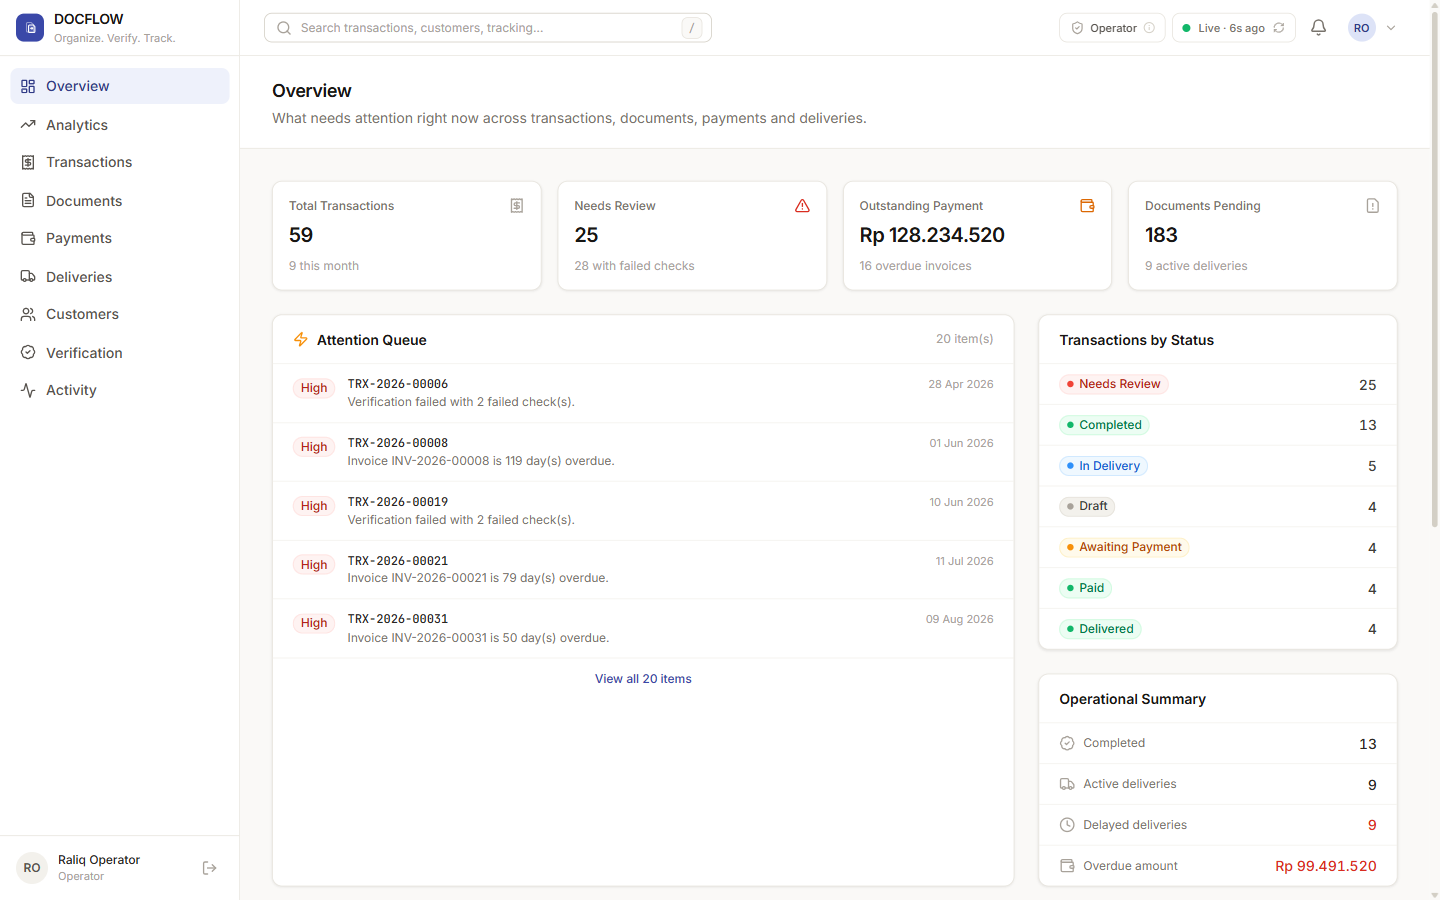
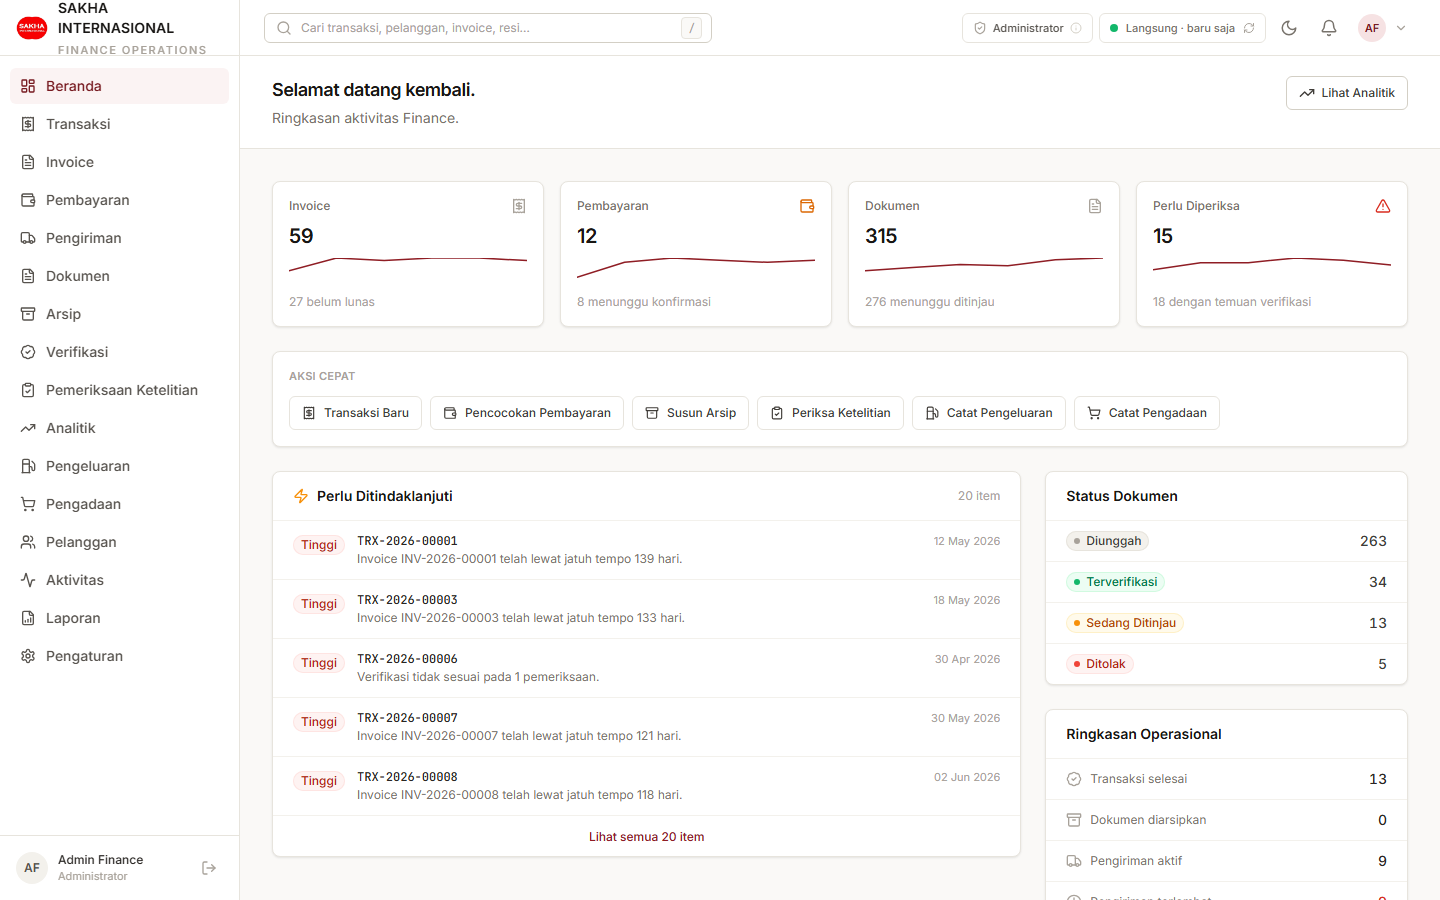
Update screenshots to SAKHA Finance Operations + add project explanation
- Remove all old DOCFLOW screenshots
- Add 29 fresh screenshots: every module, key tabs, detail view, and a
  dark-mode set (light + dark)
- Add screenshot index (presentation/screenshots/README.md)
- Add PROJECT_EXPLANATION.md: full write-up of the project (background,
  architecture, workflow, modules, business rules, tech, how to run,
  demo accounts, PKL job mapping, and honesty/limitations)

diff --git a/PROJECT_EXPLANATION.md b/PROJECT_EXPLANATION.md
@@ -1,0 +1,324 @@
+# SAKHA Finance Operations — Penjelasan Project
+
+> **Sistem Informasi Pengelolaan Data dan Dokumen Finance**
+> Prototype yang dikembangkan berdasarkan kegiatan PKL di **PT. Sakha Internasional**.
+
+---
+
+## Daftar Isi
+
+1. [Ringkasan Singkat](#1-ringkasan-singkat)
+2. [Latar Belakang](#2-latar-belakang)
+3. [Tujuan & Manfaat](#3-tujuan--manfaat)
+4. [Ruang Lingkup](#4-ruang-lingkup)
+5. [Arsitektur Sistem](#5-arsitektur-sistem)
+6. [Alur Kerja Utama](#6-alur-kerja-utama)
+7. [Modul & Fitur](#7-modul--fitur)
+8. [Aturan Bisnis (Deterministik)](#8-aturan-bisnis-deterministik)
+9. [Teknologi yang Digunakan](#9-teknologi-yang-digunakan)
+10. [Cara Menjalankan](#10-cara-menjalankan)
+11. [Akun Demo](#11-akun-demo)
+12. [Screenshot](#12-screenshot)
+13. [Pemetaan ke Pekerjaan PKL](#13-pemetaan-ke-pekerjaan-pkl)
+14. [Keterbatasan & Kejujuran](#14-keterbatasan--kejujuran)
+
+---
+
+## 1. Ringkasan Singkat
+
+**SAKHA Finance Operations** adalah sebuah *prototype* sistem informasi yang membantu
+pengelolaan data dan dokumen pada bagian **Finance**. Sistem ini menghubungkan
+transaksi, invoice, pembayaran, pengiriman, dokumen, arsip, dan verifikasi dalam
+**satu alur kerja yang dapat ditelusuri** — sehingga tidak ada berkas atau data yang
+tercecer di antara marketplace, spreadsheet, dan percakapan chat.
+
+> ⚠ **Penting:** Ini adalah **prototype pengembangan**, **bukan** sistem produksi
+> resmi PT. Sakha Internasional. Seluruh data yang ditampilkan bersifat **contoh (fiktif)**.
+
+---
+
+## 2. Latar Belakang
+
+Selama PKL di bagian administrasi Finance, pekerjaan sehari-hari melibatkan
+banyak dokumen dan sumber data: invoice, resi, surat jalan, tanda terima, e-faktur,
+purchase invoice, bukti pembayaran, data marketplace, Accurate, Excel, hingga arsip fisik.
+
+Dari pengamatan tersebut muncul satu pola yang berulang:
+
+> **Data & dokumen datang dari banyak sumber → harus dicek → dicocokkan → diinput →
+> di-scan/rename → disimpan → di-filling → dimonitor → diverifikasi.**
+
+Pola inilah yang menjadi dasar perancangan sistem: **data dan dokumen harus mengalir
+melalui satu jalur yang tertata dan bisa ditelusuri kembali.**
+
+---
+
+## 3. Tujuan & Manfaat
+
+| Tujuan | Manfaat |
+|---|---|
+| Menyatukan data dalam satu tempat | Tidak perlu bolak-balik antar file/spreadsheet |
+| Menstandarkan penamaan & jenis dokumen | Berkas mudah ditemukan kembali |
+| Melacak status dokumen & pembayaran | Menghindari invoice terlewat / resi hilang |
+| Menyediakan pemeriksaan otomatis | Mengurangi kesalahan input yang tidak terdeteksi |
+| Menyediakan arsip terstruktur | Memudahkan *filling* dan pencarian dokumen lama |
+| Menyediakan laporan & analitik | Mendukung pengambilan keputusan |
+
+---
+
+## 4. Ruang Lingkup
+
+Sistem ini **fokus pada administrasi Finance**, tidak melebar menjadi ERP penuh.
+
+**Termasuk:**
+- Transaksi, Invoice, Pembayaran (termasuk pencocokan), Pengiriman (resi & tanda terima)
+- Dokumen (bulk Finance: invoice, e-faktur, surat jalan, resi, tanda terima, dll)
+- Arsip dokumen terstruktur
+- Verifikasi & Pemeriksaan Ketelitian
+- Pengeluaran operasional (klaim bensin)
+- Pengadaan barang ringan + Buku SPB
+- Aktivitas (jejak audit) & Laporan
+
+**Tidak termasuk** (di luar lingkup PKL Finance):
+HR, Payroll, CRM, Manajemen Gudang, Inventori penuh, Akuntansi/Tax penuh,
+Purchasing ERP penuh, hirarki persetujuan kompleks, atau fitur AI.
+
+---
+
+## 5. Arsitektur Sistem
+
+```
+┌──────────────────────────────────────────────────────┐
+│                    PENGGUNA (Browser)                 │
+│         Landing Page  →  Aplikasi (SPA React)         │
+└───────────────────────────┬──────────────────────────┘
+                            │  HTTP (satu origin)
+                            ▼
+┌──────────────────────────────────────────────────────┐
+│              LARAVEL (Backend + SPA hosting)          │
+│  Routes → Middleware → Controller → Service → Model   │
+│                                                       │
+│  • Auth (session, 3 peran)                            │
+│  • Service: Verification, Accuracy, PaymentMatch,     │
+│             Analytics, Attention, Notification        │
+│  • Jobs: SendScheduledReport (laporan terjadwal)      │
+│  • PDF: dompdf (laporan siap cetak)                   │
+└───────────────────────────┬──────────────────────────┘
+                            │  Eloquent
+                            ▼
+┌──────────────────────────────────────────────────────┐
+│                   PostgreSQL 17                       │
+│  users · customers · transactions · invoices ·        │
+│  payments · deliveries · documents · archives ·       │
+│  expenses · procurements · verification_runs ·        │
+│  activity_logs · notifications …                      │
+└──────────────────────────────────────────────────────┘
+```
+
+**Prinsip kunci:**
+- SPA di-*serve* dari **origin yang sama** dengan API → session/cookie aman, tanpa CORS rumit.
+- Peran (ADMIN/OPERATOR/REVIEWER) **ditegakkan di server**, bukan hanya disembunyikan di UI.
+- Pemeriksaan (verifikasi & ketelitian) memakai **aturan tetap**, bukan AI.
+
+---
+
+## 6. Alur Kerja Utama
+
+```
+TRANSAKSI
+    ↓
+INVOICE ──────────→ DOKUMEN (invoice, e-faktur, surat jalan, resi, tanda terima, …)
+    ↓                     ↓
+PEMBAYARAN ────→ PENCOCOKAN ──→ SESUAI / PERLU DIPERIKSA
+    ↓
+PENGIRIMAN (resi, tanda terima)
+    ↓
+VERIFIKASI  ──→ SESUAI / PERLU DIPERIKSA / TIDAK SESUAI
+    ↓
+ARSIP (Tahun → Bulan → Jenis → Pelanggan)
+```
+
+Proses pendukung:
+```
+PENGADAAN → INVOICE PEMBELIAN → DOKUMEN → ARSIP
+PENGELUARAN (klaim bensin) → BUKTI → VERIFIKASI → ARSIP
+```
+
+---
+
+## 7. Modul & Fitur
+
+| Modul | Fungsi utama |
+|---|---|
+| **Beranda** | Ringkasan Finance: metrik, "Perlu Ditindaklanjuti", status dokumen, aksi cepat |
+| **Transaksi** | Pusat pencatatan transaksi + halaman detail (invoice, pembayaran, pengiriman, dokumen, verifikasi, aktivitas) |
+| **Invoice** | Daftar invoice lintas transaksi, jatuh tempo, status pembayaran |
+| **Pembayaran** | Daftar pembayaran + tab **Pencocokan** (invoice vs pembayaran + selisih) |
+| **Pengiriman** | Resi, ekspedisi, tanda terima |
+| **Dokumen** | Unggah, pratinjau, unduh, verifikasi, arsipkan (15 jenis dokumen Finance) |
+| **Arsip** | Arsip terstruktur + riwayat + unduh; pencarian & filter |
+| **Verifikasi** | Hasil verifikasi per aturan, dengan penjelasan setiap temuan |
+| **Pemeriksaan Ketelitian** | Audit deterministik 5 aspek input; SESUAI / PERLU DIPERIKSA / TIDAK SESUAI |
+| **Analitik** | Tren per modul (5 tab): ringkasan, invoice & pembayaran, dokumen & arsip, verifikasi & ketelitian, pengeluaran & pengadaan |
+| **Pengeluaran** | Klaim bensin & pengeluaran operasional (kendaraan, KM, SPBU, jenis BBM, nominal, bukti, status) |
+| **Pengadaan** | Pengadaan barang ringan + Buku SPB (supplier, harga, jumlah, resi, status) |
+| **Pelanggan** | Data pelanggan + detail |
+| **Aktivitas** | Jejak audit lengkap (filter pengguna/entitas/tindakan/tanggal + pencarian) |
+| **Laporan** | Semua laporan dalam satu tempat — **PDF · CSV · Email** |
+| **Pengaturan** | Dokumen wajib · Sistem · **Preferensi** (tema & notifikasi) · Pengguna & Peran |
+
+### Sorotan fitur
+- **Tema Terang/Gelap** — pilihan tersimpan per akun, berlaku di seluruh halaman.
+- **Laporan PDF** — berlogo, bernomor halaman, lengkap grafik (di-generate server via dompdf).
+- **Email laporan** — kirim ke email sendiri + laporan otomatis terjadwal (harian/mingguan/bulanan).
+- **Pencocokan pembayaran** — menampilkan **selisih rupiah** eksplisit, bukan sekadar status.
+
+---
+
+## 8. Aturan Bisnis (Deterministik)
+
+Pemeriksaan **tidak memakai AI** — semua aturan tetap dan dapat dijelaskan.
+
+### Verifikasi (8 pemeriksaan)
+Pelanggan · Invoice · Nominal · Pembayaran · Kelengkapan dokumen · Resi ·
+Tanggal · Duplikat → hasil: **SESUAI / PERLU DIPERIKSA / TIDAK SESUAI**.
+
+### Pemeriksaan Ketelitian (5 aspek)
+| Aspek | Yang diperiksa |
+|---|---|
+| Pelanggan | Pelanggan transaksi konsisten dengan invoice |
+| Nomor Invoice | Ada dan tidak duplikat |
+| Tanggal Invoice | Wajar terhadap tanggal transaksi |
+| Nilai Invoice | Sama dengan nilai transaksi (selisih ditampilkan) |
+| Kelengkapan Dokumen | Dokumen wajib sudah lengkap |
+
+Ambang batas (`ambang perlu ditinjau`, `skor minimum`) dapat diubah di **Pengaturan → Sistem**.
+
+### Pencocokan Pembayaran
+- Nilai invoice = nilai pembayaran → **SESUAI**
+- Ada selisih → **PERLU DIPERIKSA** (menampilkan nominal selisih)
+- Belum ada pembayaran → **TIDAK SESUAI**
+
+---
+
+## 9. Teknologi yang Digunakan
+
+| Lapisan | Teknologi |
+|---|---|
+| Backend | Laravel 13 (PHP 8.3) |
+| Database | PostgreSQL 17 |
+| Frontend | React 18 + TypeScript + Vite |
+| Styling | Tailwind CSS (token warna, dark mode) |
+| Auth | Session-based (Laravel Sanctum stateful) |
+| PDF | barryvdh/laravel-dompdf |
+| Email | SMTP (Laravel Mail) + Queue (driver database) |
+| Pengujian | PHPUnit (51 test) |
+
+---
+
+## 10. Cara Menjalankan
+
+**Prasyarat:** PHP 8.3+, Composer, Node 18+, PostgreSQL.
+
+```powershell
+# Cara termudah — klik dua kali run.cmd, atau dari terminal:
+cd sakha-finance
+.\dev.ps1 up          # PostgreSQL + Laravel API (port bebas 8650–8699)
+.\start-all.ps1       # + queue worker + Vite dev server
+```
+
+Buka **http://127.0.0.1:8650** (port tercatat di `sakha-finance/.devport`).
+
+```powershell
+# Reset data contoh
+php artisan migrate:fresh --seed
+php artisan sakha:regenerate-documents
+
+# Jalankan test
+php artisan test      # 51 test
+
+# Build frontend
+cd spa; npm install; npm run build
+```
+
+---
+
+## 11. Akun Demo
+
+| Email | Peran | Kata sandi |
+|---|---|---|
+| `admin@sakha.test` | Administrator | `password` |
+| `operator@sakha.test` | Operator | `password` |
+| `reviewer@sakha.test` | Pemeriksa | `password` |
+
+**Perbedaan peran (ditegakkan di server):**
+
+| Peran | Dapat | Tidak dapat |
+|---|---|---|
+| **Administrator** | Akses penuh, kelola pengguna & pengaturan | — |
+| **Operator** | Buat/ubah transaksi, dokumen, pembayaran, pengiriman | Verifikasi/tolak dokumen, ubah alur kerja, kelola pengguna |
+| **Pemeriksa** | Verifikasi/tolak dokumen, tinjau hasil | Buat/ubah transaksi, catat pembayaran, unggah dokumen |
+
+---
+
+## 12. Screenshot
+
+Semua tangkapan layar ada di folder [`presentation/screenshots/`](./screenshots).
+
+**Mode Terang (23):**
+`01-landing` · `02-login` · `03-register` · `04-beranda` · `05-transaksi` · `06-invoice` ·
+`07-pembayaran` · `08-pembayaran-pencocokan` · `09-pengiriman` · `10-dokumen` · `11-arsip` ·
+`12-verifikasi` · `13-ketelitian` · `14-analitik-ringkasan` · `15-pengeluaran` · `16-pengadaan` ·
+`17-pelanggan` · `18-aktivitas` · `19-laporan` · `20-pengaturan-dokumen` · `21-pengaturan-sistem` ·
+`22-pengaturan-preferensi` · `23-detail-transaksi`
+
+**Mode Gelap (6):**
+`24-dark-beranda` · `25-dark-analitik` · `26-dark-arsip` · `27-dark-ketelitian` ·
+`28-dark-laporan` · `29-dark-preferensi`
+
+---
+
+## 13. Pemetaan ke Pekerjaan PKL
+
+Sistem ini bukan mengarang fitur — setiap modul berangkat dari pekerjaan yang
+benar-benar dilakukan/diamati selama PKL:
+
+| Pekerjaan PKL | Diwujudkan menjadi |
+|---|---|
+| Update Payment | Modul **Pembayaran** + tab **Pencocokan** |
+| Simpan Invoice / Purchase Invoice | Modul **Invoice** & **Dokumen** |
+| Simpan Resi / Menyesuaikan Resi & Invoice | Modul **Pengiriman** (resi) + pencocokan |
+| Filling Tanda Terima & Penerimaan | **Pengiriman** (tanda terima) |
+| Scan / Rename / Filling Dokumen / Penyusunan Dokumen | Modul **Arsip** |
+| Update Pengadaan Barang / Buku SPB | Modul **Pengadaan** |
+| Claim Bensin | Modul **Pengeluaran** |
+| Dashboard Ketelitian Input Sales Invoice | Modul **Pemeriksaan Ketelitian** |
+| Pemeriksaan Invoice Lebih dari Satu | **Verifikasi** + pencocokan |
+| Isi Dashboard Pengiriman | **Pengiriman** |
+| Menyesuaikan e-Faktur / jurnal / BA | Jenis dokumen di **Dokumen** & **Arsip** |
+
+---
+
+## 14. Keterbatasan & Kejujuran
+
+Agar presentasi dapat dipertanggungjawabkan, dipakai tiga label konsisten:
+
+- **ACTUAL** — pekerjaan yang benar-benar dilakukan selama PKL.
+- **OBSERVATION** — pola/alur yang diamati.
+- **PROPOSED** — usulan perbaikan lewat project ini (**belum dipakai perusahaan**).
+
+**Yang perlu dipahami:**
+
+- Ini **prototype pengembangan**, **bukan** sistem produksi resmi PT. Sakha Internasional.
+- Seluruh data bersifat **fiktif/contoh** — tidak ada data perusahaan asli maupun rahasia.
+- Pemeriksaan bersifat **deterministik (aturan tetap)**, **bukan AI**.
+- Email memakai **sandbox (Mailtrap)** untuk demo, bukan kotak surat produksi.
+- Sistem dirancang **sempit dan relevan** (Finance), sengaja **bukan** ERP.
+
+> Kalimat yang dapat dipakai saat presentasi:
+> *"Ini berasal dari proses yang saya lakukan/lihat selama PKL, kemudian saya kembangkan
+> menjadi fitur sistem — berupa prototype, belum sistem produksi, dan memakai data contoh."*
+
+---
+
+*Dibuat untuk laporan & presentasi PKL — PT. Sakha Internasional.*

diff --git a/presentation/screenshots/README.md b/presentation/screenshots/README.md
@@ -1,0 +1,48 @@
+# Screenshot — SAKHA Finance Operations
+
+Tangkapan layar aplikasi **SAKHA Finance Operations** (Sistem Informasi Pengelolaan
+Data dan Dokumen Finance) untuk keperluan laporan & presentasi PKL.
+
+> Prototype berdasarkan kegiatan PKL di PT. Sakha Internasional. Data bersifat contoh
+> (fiktif), bukan data perusahaan.
+
+Diambil pada resolusi **1440×900**, akun `admin@sakha.test`.
+
+## Mode Terang
+
+| # | Halaman | Berkas |
+|---|---|---|
+| 01 | Landing page | `01-landing.png` |
+| 02 | Login | `02-login.png` |
+| 03 | Registrasi | `03-register.png` |
+| 04 | Beranda (dashboard) | `04-beranda.png` |
+| 05 | Transaksi | `05-transaksi.png` |
+| 06 | Invoice | `06-invoice.png` |
+| 07 | Pembayaran | `07-pembayaran.png` |
+| 08 | Pembayaran — Pencocokan | `08-pembayaran-pencocokan.png` |
+| 09 | Pengiriman | `09-pengiriman.png` |
+| 10 | Dokumen | `10-dokumen.png` |
+| 11 | Arsip | `11-arsip.png` |
+| 12 | Verifikasi | `12-verifikasi.png` |
+| 13 | Pemeriksaan Ketelitian | `13-ketelitian.png` |
+| 14 | Analitik | `14-analitik-ringkasan.png` |
+| 15 | Pengeluaran | `15-pengeluaran.png` |
+| 16 | Pengadaan & SPB | `16-pengadaan.png` |
+| 17 | Pelanggan | `17-pelanggan.png` |
+| 18 | Aktivitas (audit) | `18-aktivitas.png` |
+| 19 | Laporan (PDF/CSV/Email) | `19-laporan.png` |
+| 20 | Pengaturan — Dokumen Wajib | `20-pengaturan-dokumen.png` |
+| 21 | Pengaturan — Sistem | `21-pengaturan-sistem.png` |
+| 22 | Pengaturan — Preferensi | `22-pengaturan-preferensi.png` |
+| 23 | Detail Transaksi | `23-detail-transaksi.png` |
+
+## Mode Gelap
+
+| # | Halaman | Berkas |
+|---|---|---|
+| 24 | Beranda | `24-dark-beranda.png` |
+| 25 | Analitik | `25-dark-analitik.png` |
+| 26 | Arsip | `26-dark-arsip.png` |
+| 27 | Pemeriksaan Ketelitian | `27-dark-ketelitian.png` |
+| 28 | Laporan | `28-dark-laporan.png` |
+| 29 | Preferensi | `29-dark-preferensi.png` |
